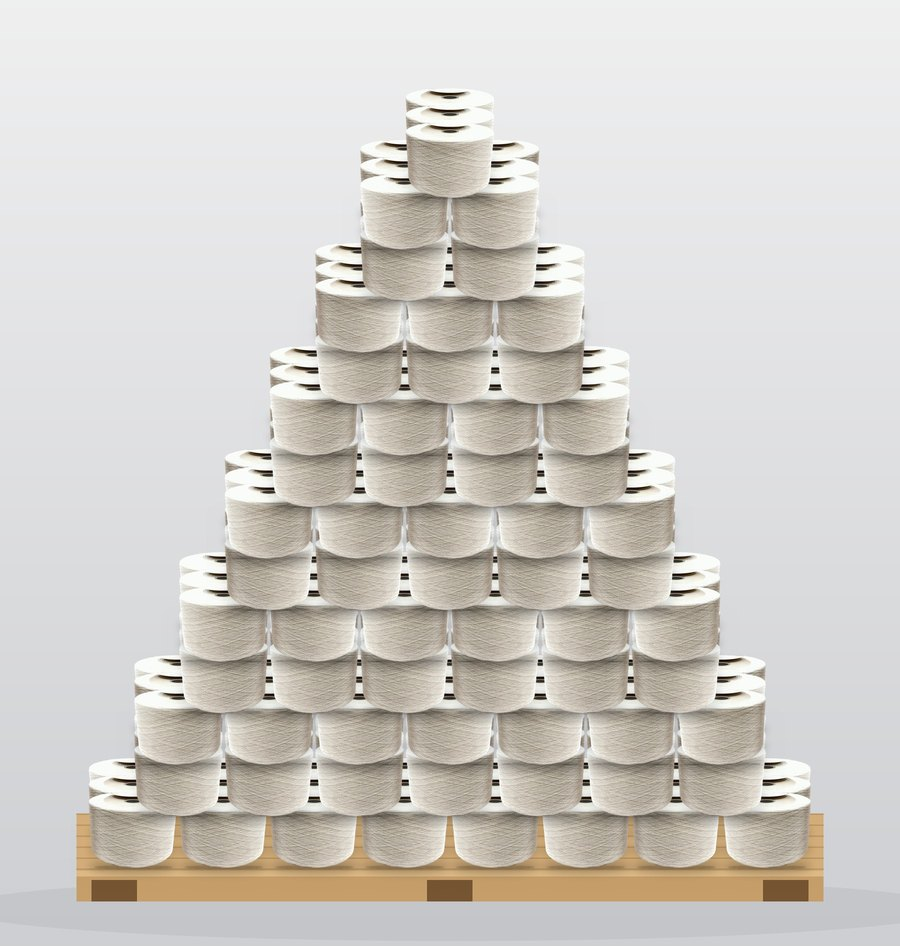
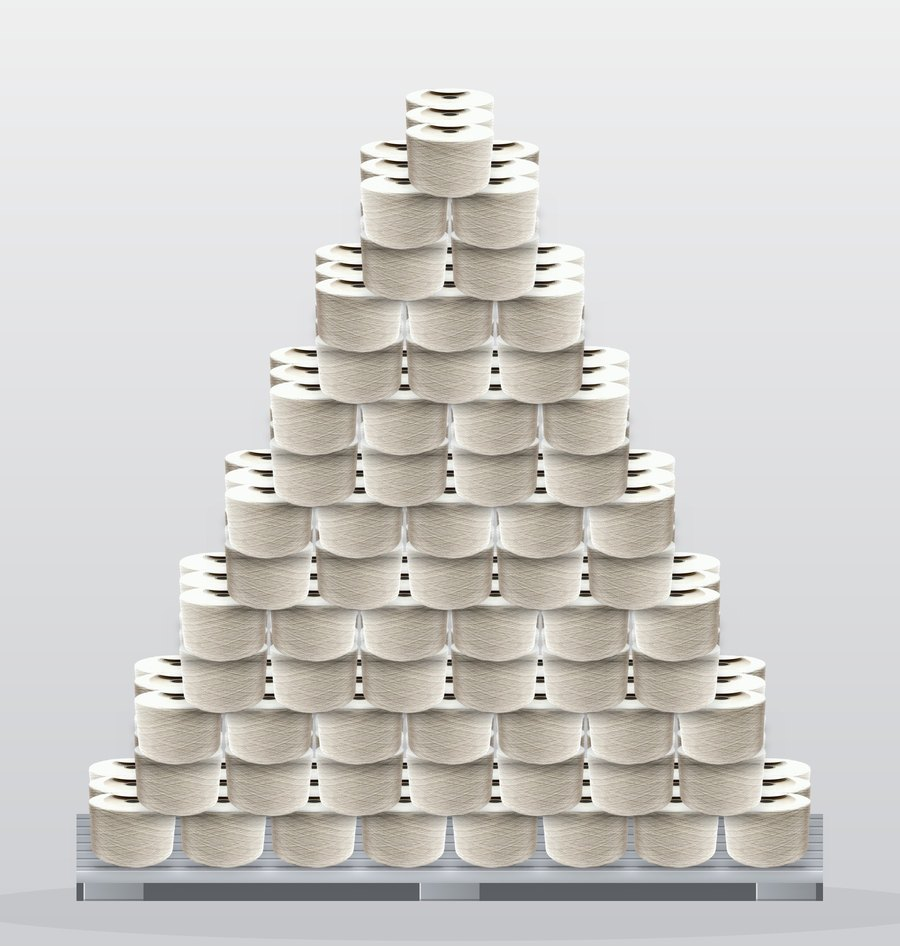
Home yarn block: cones pyramid on a grey pallet
Claude-Session: https://claude.ai/code/session_016sCuQqi6TPsQvyxFB8uVLd

Changed region(s): [[0.0622, 0.8584, 0.9333, 0.981]]

diff --git a/docs/ru/index.html b/docs/ru/index.html
@@ -115,7 +115,7 @@
 
     <section class="section">
       <div class="container split">
-        <div class="split-media"><figure class="media media-feature"><img src="../assets/img/yarn-feature.jpg?v=10dd1454" alt="Производство пряжи ALTYN PAMYK" loading="lazy"></figure></div>
+        <div class="split-media"><figure class="media media-feature"><img src="../assets/img/yarn-feature.jpg?v=7facfd96" alt="Производство пряжи ALTYN PAMYK" loading="lazy"></figure></div>
         <div >
           <p class="eyebrow">Торговая марка ALTYN PAMYK</p>
           <h2>Собственное производство пряжи</h2>

diff --git a/docs/tk/index.html b/docs/tk/index.html
@@ -115,7 +115,7 @@
 
     <section class="section">
       <div class="container split">
-        <div class="split-media"><figure class="media media-feature"><img src="../assets/img/yarn-feature.jpg?v=10dd1454" alt="ALTYN PAMYK ýüplük önümçiligi" loading="lazy"></figure></div>
+        <div class="split-media"><figure class="media media-feature"><img src="../assets/img/yarn-feature.jpg?v=7facfd96" alt="ALTYN PAMYK ýüplük önümçiligi" loading="lazy"></figure></div>
         <div >
           <p class="eyebrow">ALTYN PAMYK haryt nyşany</p>
           <h2>Öz ýüplük önümçiligimiz</h2>

diff --git a/docs/en/index.html b/docs/en/index.html
@@ -115,7 +115,7 @@
 
     <section class="section">
       <div class="container split">
-        <div class="split-media"><figure class="media media-feature"><img src="../assets/img/yarn-feature.jpg?v=10dd1454" alt="ALTYN PAMYK yarn manufacturing" loading="lazy"></figure></div>
+        <div class="split-media"><figure class="media media-feature"><img src="../assets/img/yarn-feature.jpg?v=7facfd96" alt="ALTYN PAMYK yarn manufacturing" loading="lazy"></figure></div>
         <div >
           <p class="eyebrow">ALTYN PAMYK brand</p>
           <h2>Our own yarn mill</h2>
